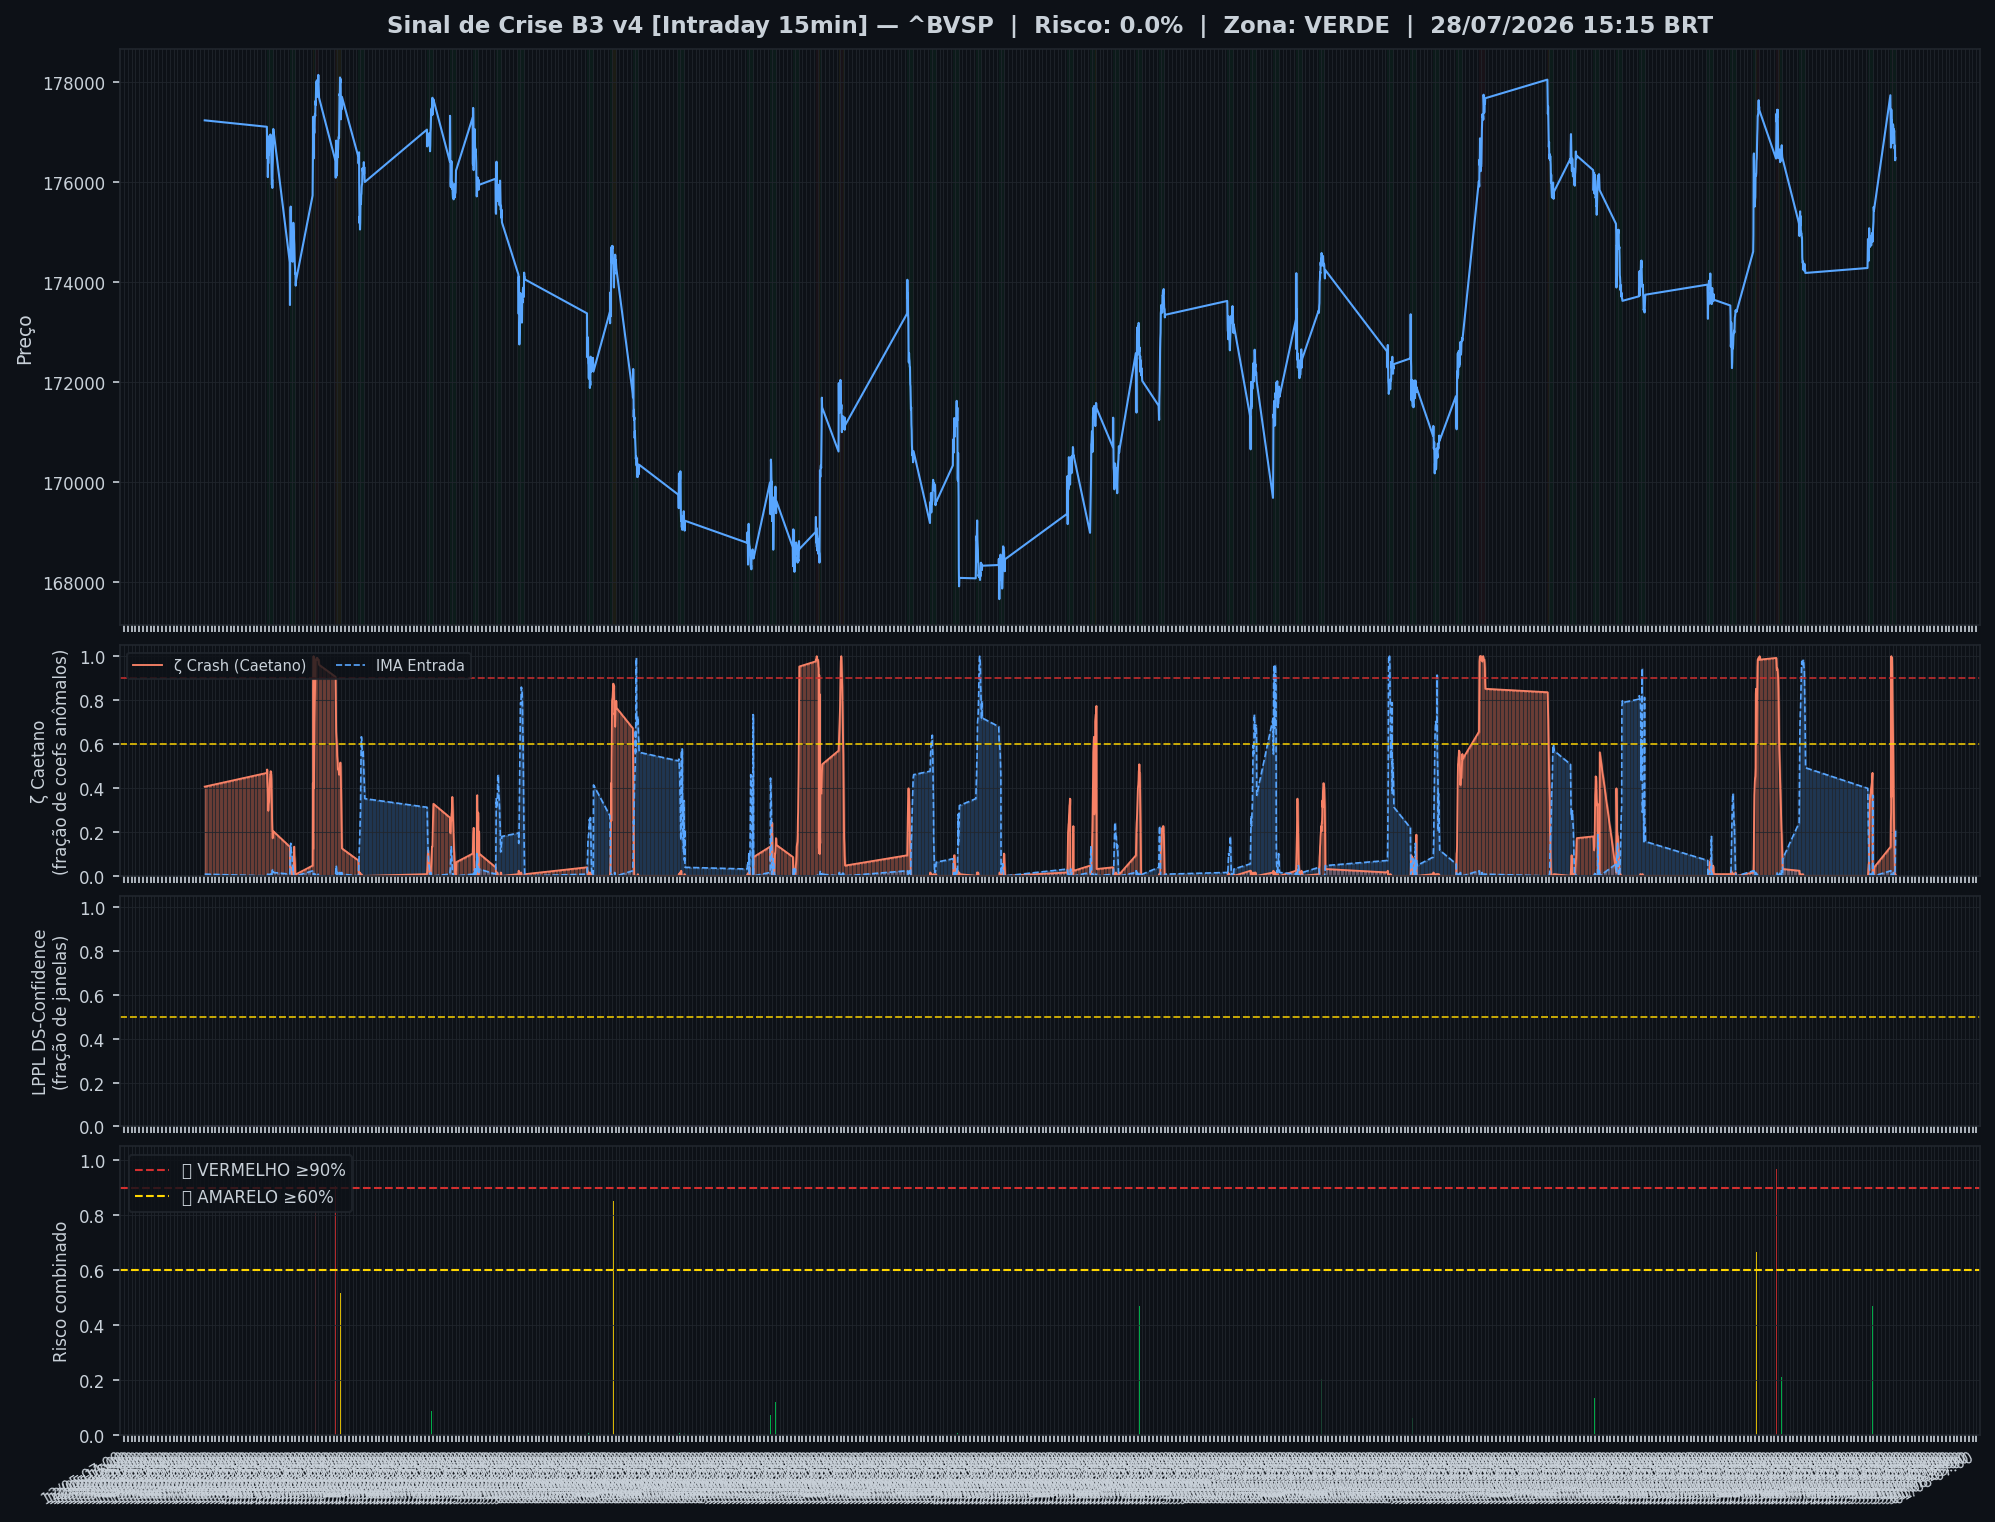
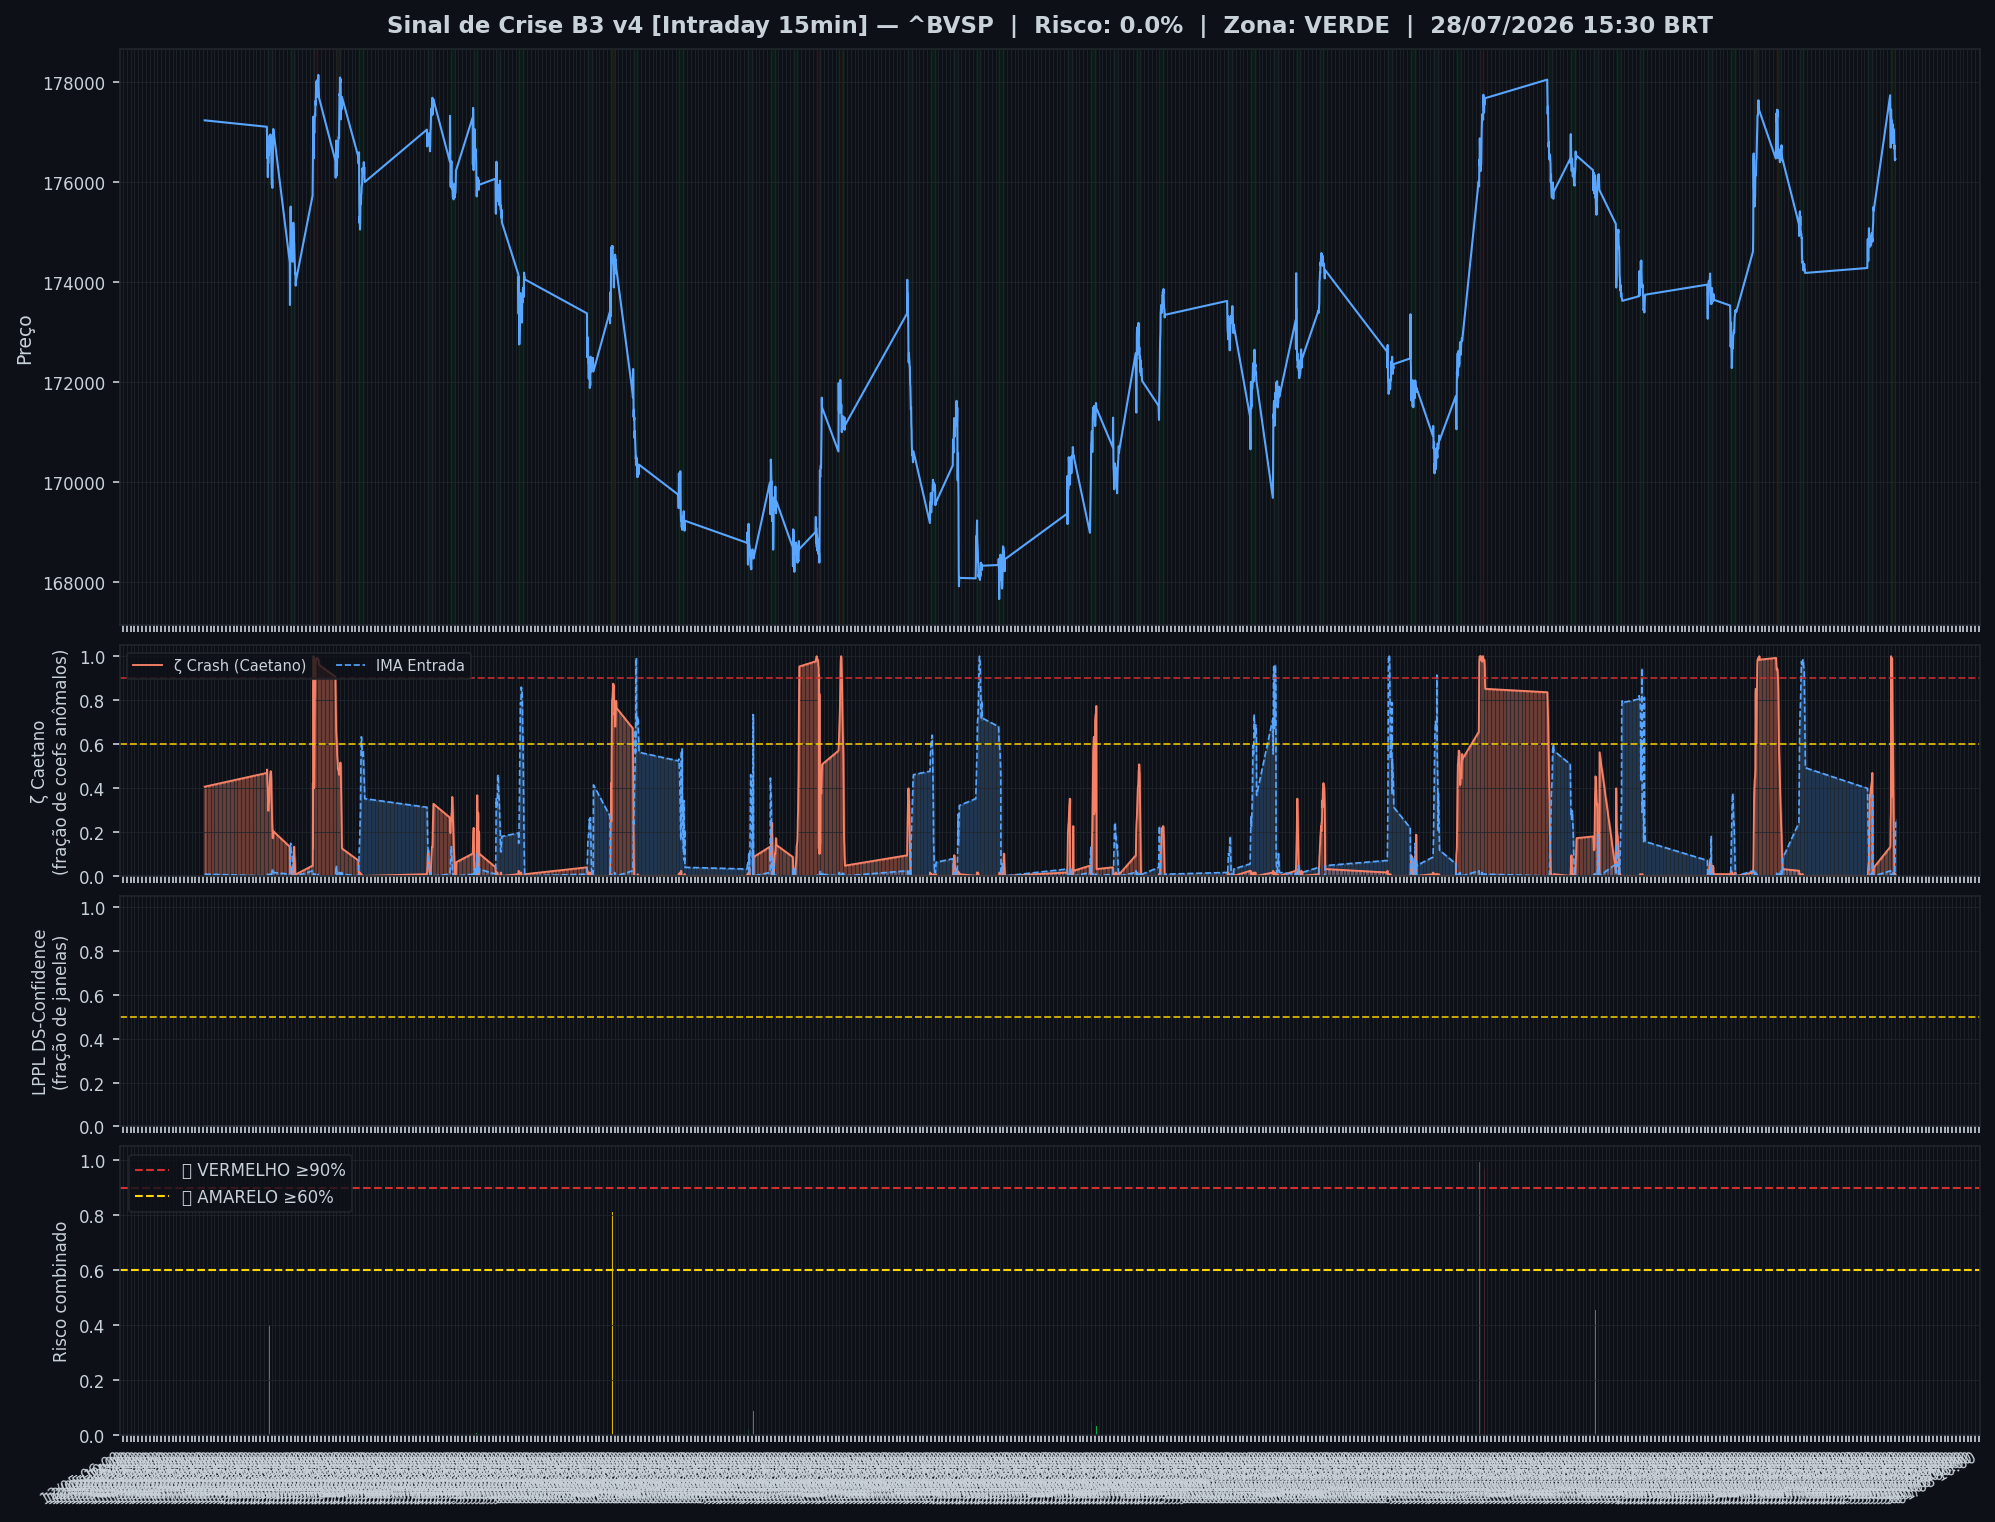
🤖 Auto: Sinal 28/07/2026 16:15

Changed region(s): [[0.0932, 0.4323, 0.9634, 0.5867], [0.0311, 0.9264, 0.9945, 0.9882]]

diff --git a/content/intraday/2026-07-28.md b/content/intraday/2026-07-28.md
@@ -1,10 +1,10 @@
 ---
-title: "🟢 Intraday 28/07/2026 15:15 BRT — VERDE"
+title: "🟢 Intraday 28/07/2026 15:30 BRT — VERDE"
 date: 2026-07-28
 tags: [intraday]
 ---
 
-> [!success] 🟢 **VERDE** — Risco 0% · ▼ -1 p.p. vs leitura anterior
+> [!success] 🟢 **VERDE** — Risco 0% · ＝ +0 p.p. vs leitura anterior
 > `░░░░░░░░░░░░░░░░░░░░`
 > Mercado sem sinais relevantes de estresse.
 
@@ -12,9 +12,9 @@ tags: [intraday]
 | Indicador | Valor |
 |---|---|
 | 🔴 ζ Crash — severidade da queda em curso | **0%** |
-| 🔵 ζ Entrada — estrutura de fundo | 21% |
+| 🔵 ζ Entrada — estrutura de fundo | 26% |
 | 🫧 LPPL DS-Confidence | 0% |
-| 📊 Ibovespa | 176.485 pts |
+| 📊 Ibovespa | 176.468 pts |
 
 ![Gráfico do sinal](../graficos/sinal_intraday.png)
 
@@ -22,6 +22,7 @@ tags: [intraday]
 
 | Data | Zona | Risco | IMA Crash | Entrada | LPPL |
 |---|---|---|---|---|---|
+| 2026-07-28 15:30 | 🟢 VERDE | **0%** | 0% | 26% | 0% |
 | 2026-07-28 15:15 | 🟢 VERDE | **0%** | 0% | 21% | 0% |
 | 2026-07-28 15:00 | 🟢 VERDE | **1%** | 1% | 12% | 0% |
 | 2026-07-28 14:45 | 🟢 VERDE | **0%** | 0% | 3% | 0% |
@@ -51,7 +52,6 @@ tags: [intraday]
 | 2026-07-27 15:45 | 🟢 VERDE | **0%** | 0% | 1% | 0% |
 | 2026-07-27 15:30 | 🟢 VERDE | **0%** | 0% | 1% | 0% |
 | 2026-07-27 15:15 | 🟢 VERDE | **0%** | 0% | 37% | 0% |
-| 2026-07-27 15:00 | 🟢 VERDE | **47%** | 47% | 0% | 0% |
 
 ## Monitor Multi-Ativo
 
@@ -59,37 +59,37 @@ tags: [intraday]
 
 | Zona | Ativo | Setor | IMA Crash | IMA Entrada |
 |---|---|---|---|---|
-| 🟢 | **USD/BRL** | Câmbio | 60.2% | 0.0% |
-| 🟢 | **ITAUUNIBANCO** | Financeiro | 51.6% | 0.0% |
+| 🟢 | **VALE** | Mineração | 60.2% | 0.0% |
+| 🟢 | **ITAUUNIBANCO** | Financeiro | 60.2% | 0.0% |
+| 🟢 | **PETROBRAS** | Petróleo | 60.2% | 0.0% |
+| 🟢 | **AXIA ENERGIA** | Energia | 60.2% | 0.0% |
+| 🟢 | **BRADESCO** | Financeiro | 60.2% | 0.0% |
+| 🟢 | **ITAUSA** | Financeiro | 60.2% | 0.0% |
+| 🟢 | **B3** | Financeiro | 60.2% | 0.0% |
+| 🟢 | **WEG** | Industrial | 60.2% | 0.0% |
+| 🟢 | **AMBEV S/A** | Consumo | 60.2% | 0.0% |
+| 🟢 | **BTGP BANCO** | Financeiro | 60.2% | 0.0% |
+| 🟢 | **EMBRAER** | Outros | 60.2% | 0.0% |
+| 🟢 | **BRASIL** | Financeiro | 60.2% | 0.0% |
+| 🟢 | **ENEVA** | Energia | 60.2% | 0.0% |
+| 🟢 | **EQUATORIAL** | Energia | 60.2% | 0.0% |
+| 🟢 | **COPEL** | Energia | 60.2% | 0.0% |
+| 🟢 | **PRIO** | Petróleo | 60.2% | 0.0% |
+| 🟢 | **VIBRA** | Energia | 60.2% | 0.0% |
+| 🟢 | **LOCALIZA** | Aluguel | 60.2% | 0.0% |
+| 🟢 | **REDE D OR** | Saúde | 60.2% | 0.0% |
+| 🟢 | **ULTRAPAR** | Outros | 60.2% | 0.0% |
+| 🟢 | **GERDAU** | Siderurgia | 60.2% | 0.0% |
+| 🟢 | **SUZANO S.A.** | Papel/Celulose | 60.2% | 0.0% |
+| 🟢 | **TELEF BRASIL** | Outros | 60.2% | 0.0% |
+| 🟢 | **BBSEGURIDADE** | Financeiro | 60.2% | 0.0% |
+| 🟢 | **USD/BRL** | Câmbio | 55.5% | 0.0% |
 | 🟢 | **PETROBRAS** | Petróleo | 51.6% | 0.0% |
-| 🟢 | **AXIA ENERGIA** | Energia | 51.6% | 0.0% |
 | 🟢 | **SABESP** | Saneamento | 51.6% | 0.0% |
-| 🟢 | **ITAUSA** | Financeiro | 51.6% | 0.0% |
-| 🟢 | **AMBEV S/A** | Consumo | 51.6% | 0.0% |
-| 🟢 | **BTGP BANCO** | Financeiro | 51.6% | 0.0% |
-| 🟢 | **EMBRAER** | Outros | 51.6% | 0.0% |
-| 🟢 | **BRASIL** | Financeiro | 51.6% | 0.0% |
-| 🟢 | **ENEVA** | Energia | 51.6% | 0.0% |
-| 🟢 | **EQUATORIAL** | Energia | 51.6% | 0.0% |
-| 🟢 | **COPEL** | Energia | 51.6% | 0.0% |
-| 🟢 | **PRIO** | Petróleo | 51.6% | 0.0% |
-| 🟢 | **VIBRA** | Energia | 51.6% | 0.0% |
-| 🟢 | **LOCALIZA** | Aluguel | 51.6% | 0.0% |
-| 🟢 | **REDE D OR** | Saúde | 51.6% | 0.0% |
-| 🟢 | **ULTRAPAR** | Outros | 51.6% | 0.0% |
-| 🟢 | **GERDAU** | Siderurgia | 51.6% | 0.0% |
-| 🟢 | **SUZANO S.A.** | Papel/Celulose | 51.6% | 0.0% |
-| 🟢 | **TELEF BRASIL** | Outros | 51.6% | 0.0% |
-| 🟢 | **BBSEGURIDADE** | Financeiro | 51.6% | 0.0% |
-| 🟢 | **VALE** | Mineração | 43.0% | 0.0% |
-| 🟢 | **PETROBRAS** | Petróleo | 43.0% | 0.0% |
-| 🟢 | **BRADESCO** | Financeiro | 43.0% | 0.0% |
-| 🟢 | **B3** | Financeiro | 43.0% | 0.0% |
-| 🟢 | **WEG** | Industrial | 43.0% | 0.0% |
 
 ![Monitor multi-ativo](../graficos/multi_intraday.png)
 
-*Página atualizada em 28/07/2026 16:00 BRT (leitura da barra de 2026-07-28 15:15 BRT).*
+*Página atualizada em 28/07/2026 16:15 BRT (leitura da barra de 2026-07-28 15:30 BRT).*
 
 > [!info]- Como interpretar (clique para expandir)
 > - **ζ Crash**: fração dos coeficientes wavelet acima do corte (Caetano & Yoneyama 2009). Escala absoluta: ζ=0,90 = 90% dos coeficientes anômalos — historicamente, quedas com ζ≥0,90 foram mais fundas e mais longas. **Mede a severidade do movimento em curso, não prevê o início da queda.**

diff --git a/content/index.md b/content/index.md
@@ -8,9 +8,9 @@ tags: [home]
 
 Monitoramento diário e intraday do Ibovespa — **IMA Wavelet** (Prof. Marco Antonio Leonel Caetano, ITA/INSPER) + **LPPL DS-Confidence** (Prof. Didier Sornette, ETH-Zurich).
 
-*Última atualização: 28/07/2026 16:00 BRT · ^BVSP · Intraday 15min · v4*
+*Última atualização: 28/07/2026 16:15 BRT · ^BVSP · Intraday 15min · v4*
 
-> [!success] 🟢 **VERDE** — Risco 0% · ▼ -1 p.p. vs leitura anterior
+> [!success] 🟢 **VERDE** — Risco 0% · ＝ +0 p.p. vs leitura anterior
 > `░░░░░░░░░░░░░░░░░░░░`
 > Mercado sem sinais relevantes de estresse.
 
@@ -18,9 +18,9 @@ Monitoramento diário e intraday do Ibovespa — **IMA Wavelet** (Prof. Marco An
 | Indicador | Valor |
 |---|---|
 | 🔴 ζ Crash — severidade da queda em curso | **0%** |
-| 🔵 ζ Entrada — estrutura de fundo | 21% |
+| 🔵 ζ Entrada — estrutura de fundo | 26% |
 | 🫧 LPPL DS-Confidence | 0% |
-| 📊 Ibovespa | 176.485 pts |
+| 📊 Ibovespa | 176.468 pts |
 
 **Multi-ativo:** 0% em tensão (0🔴 0🟡 de 27 ativos)
 

diff --git a/content/historico.md b/content/historico.md
@@ -7,6 +7,7 @@ tags: [historico]
 
 | Data | Modo | Zona | Risco | IMA | LPPL |
 |---|---|---|---|---|---|
+| 2026-07-28 15:30 | intraday | 🟢 VERDE | 0% | 0% | 0% |
 | 2026-07-28 15:15 | intraday | 🟢 VERDE | 0% | 0% | 0% |
 | 2026-07-28 15:00 | intraday | 🟢 VERDE | 1% | 1% | 0% |
 | 2026-07-28 14:45 | intraday | 🟢 VERDE | 0% | 0% | 0% |
